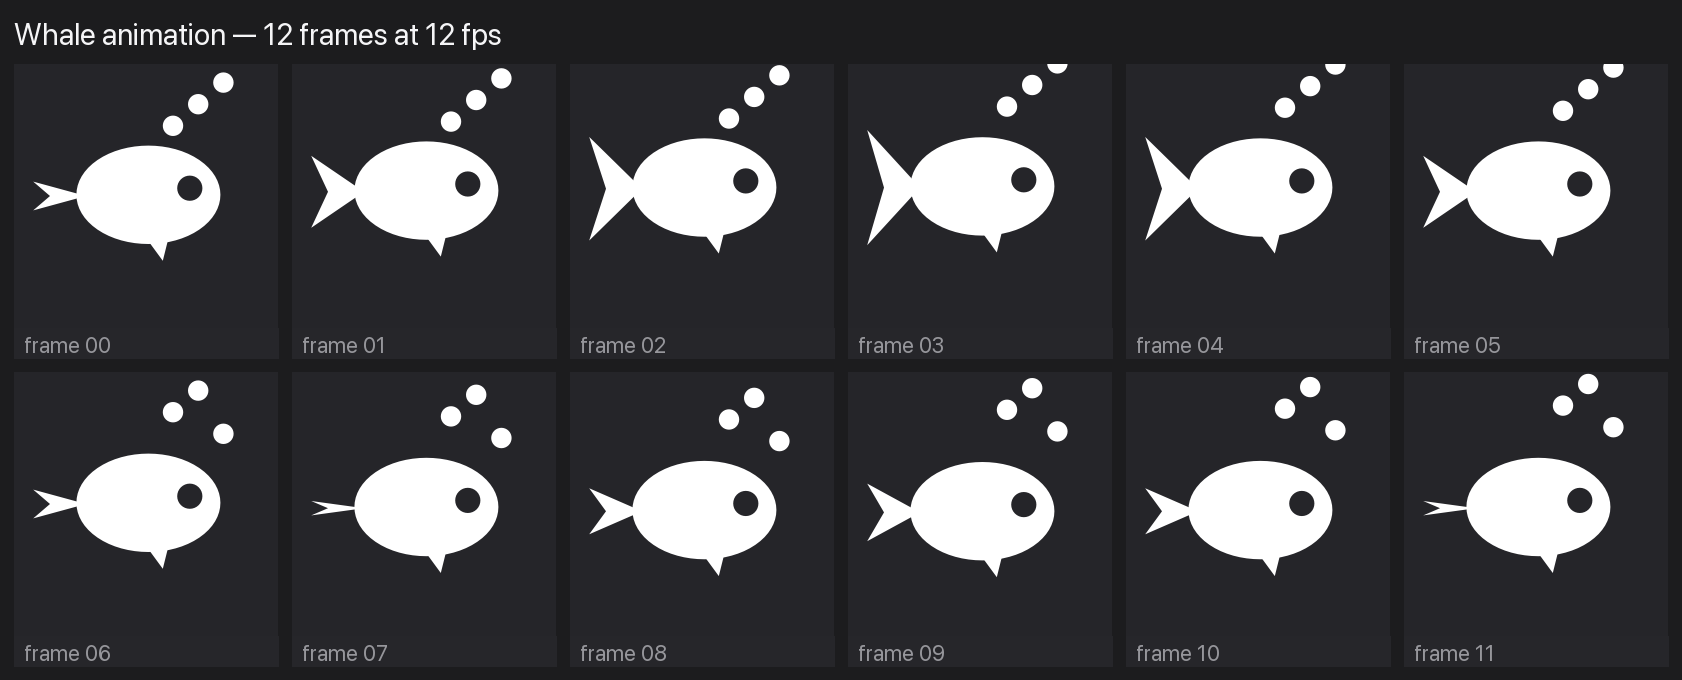
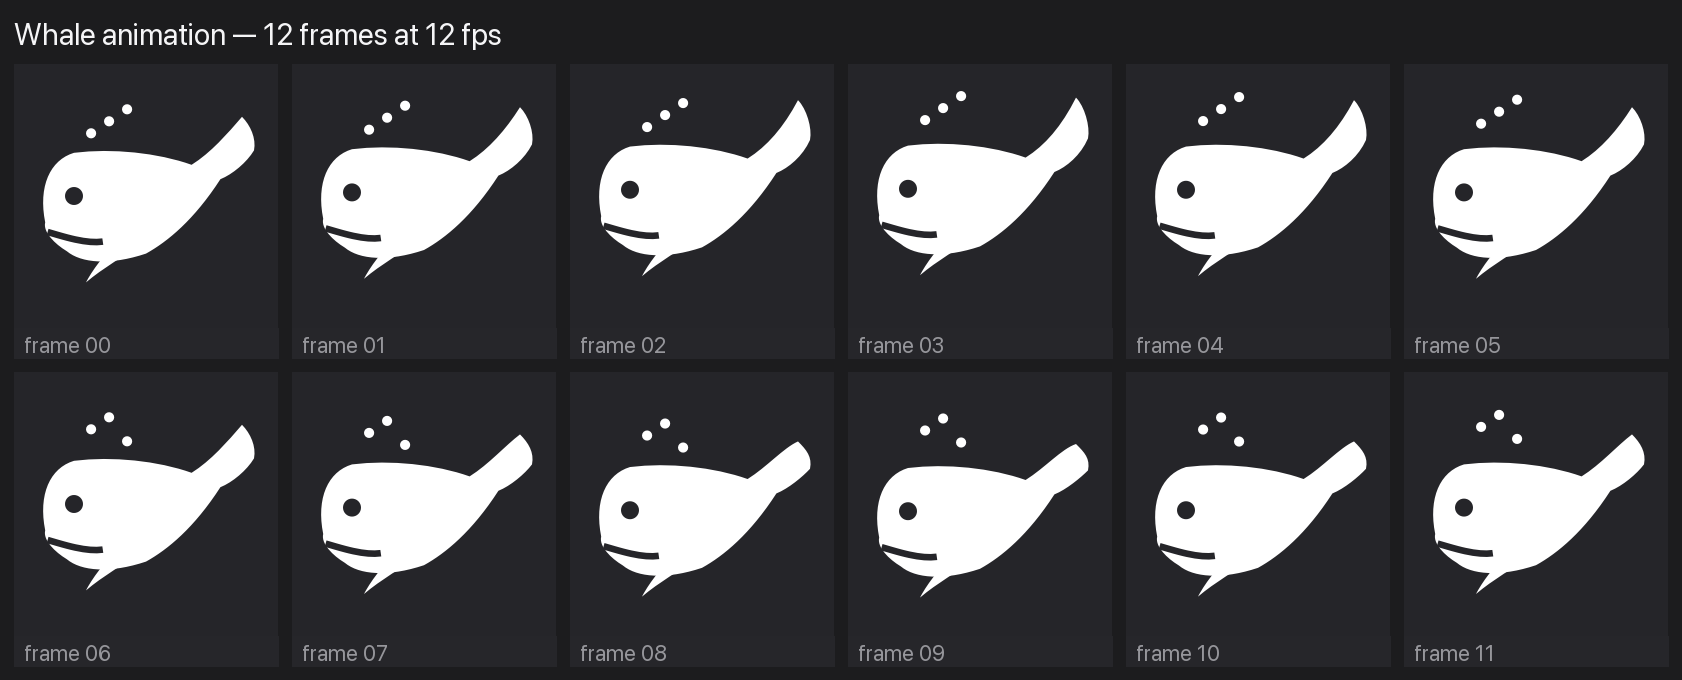
feat(0.4.1): redraw the whale with a broad fluke and mouth

diff --git a/app/Sources/DSHBar/WhaleIcon.swift b/app/Sources/DSHBar/WhaleIcon.swift
@@ -21,44 +21,78 @@ enum WhaleIcon {
     private static func drawWhale(in rect: NSRect, frame: Int, state: BarState) {
         let t = CGFloat(frame) / 12.0
         let animates = state.animates
-        let bob: CGFloat = animates ? sin(t * .pi * 2) * 0.7 : 0
-        let tail: CGFloat = animates ? sin(t * .pi * 2) * 0.9 : 0.25
+        let bob: CGFloat = animates ? sin(t * .pi * 2) * 0.6 : 0
+        let tail: CGFloat = animates ? sin(t * .pi * 2) * 1.0 : 0.2
         NSColor.black.setFill()
 
-        // Body.
-        NSBezierPath(ovalIn: NSRect(x: 5.2, y: 7.0 + bob, width: 12.0, height: 8.2)).fill()
+        // Head at the left, back curving up to a single raised fluke on the
+        // right. A whale tail is a broad blade, not a fish's forked fin.
+        let body = NSBezierPath()
+        body.move(to: NSPoint(x: 2.6, y: 8.8 + bob))
+        body.curve(to: NSPoint(x: 5.0, y: 14.6 + bob),
+                   controlPoint1: NSPoint(x: 2.0, y: 11.8 + bob),
+                   controlPoint2: NSPoint(x: 3.0, y: 14.0 + bob))
+        body.curve(to: NSPoint(x: 14.8, y: 13.6 + bob),
+                   controlPoint1: NSPoint(x: 8.2, y: 15.0 + bob),
+                   controlPoint2: NSPoint(x: 12.0, y: 14.6 + bob))
+        body.curve(to: NSPoint(x: 19.0, y: 17.6 + bob + tail),
+                   controlPoint1: NSPoint(x: 16.4, y: 14.6 + bob),
+                   controlPoint2: NSPoint(x: 17.8, y: 16.2 + bob))
+        body.curve(to: NSPoint(x: 20.0, y: 14.8 + bob + tail * 0.4),
+                   controlPoint1: NSPoint(x: 19.7, y: 16.9 + bob + tail),
+                   controlPoint2: NSPoint(x: 20.2, y: 15.8 + bob + tail * 0.4))
+        body.curve(to: NSPoint(x: 17.2, y: 12.4 + bob),
+                   controlPoint1: NSPoint(x: 19.4, y: 13.8 + bob),
+                   controlPoint2: NSPoint(x: 18.2, y: 12.8 + bob))
+        body.curve(to: NSPoint(x: 11.0, y: 6.2 + bob),
+                   controlPoint1: NSPoint(x: 15.0, y: 9.0 + bob),
+                   controlPoint2: NSPoint(x: 12.8, y: 7.2 + bob))
+        body.curve(to: NSPoint(x: 4.4, y: 6.4 + bob),
+                   controlPoint1: NSPoint(x: 8.0, y: 5.2 + bob),
+                   controlPoint2: NSPoint(x: 5.6, y: 5.4 + bob))
+        body.curve(to: NSPoint(x: 2.6, y: 8.8 + bob),
+                   controlPoint1: NSPoint(x: 3.4, y: 7.0 + bob),
+                   controlPoint2: NSPoint(x: 2.4, y: 8.0 + bob))
+        body.close()
+        body.fill()
 
-        // Tail: two flukes swinging around the body's left end.
-        let tailPath = NSBezierPath()
-        tailPath.move(to: NSPoint(x: 6.0, y: 11.0 + bob))
-        tailPath.line(to: NSPoint(x: 1.6, y: 11.0 + bob + 4.0 * tail + 1.2))
-        tailPath.line(to: NSPoint(x: 3.0, y: 11.0 + bob))
-        tailPath.line(to: NSPoint(x: 1.6, y: 11.0 + bob - 4.0 * tail - 1.2))
-        tailPath.close()
-        tailPath.fill()
-
-        // Fin.
+        // Pectoral flipper.
         let fin = NSBezierPath()
-        fin.move(to: NSPoint(x: 10.2, y: 8.6 + bob))
-        fin.line(to: NSPoint(x: 12.4, y: 5.6 + bob))
-        fin.line(to: NSPoint(x: 13.2, y: 8.8 + bob))
+        fin.move(to: NSPoint(x: 9.0, y: 7.4 + bob))
+        fin.curve(to: NSPoint(x: 6.0, y: 3.8 + bob),
+                  controlPoint1: NSPoint(x: 7.6, y: 6.4 + bob),
+                  controlPoint2: NSPoint(x: 6.4, y: 4.6 + bob))
+        fin.curve(to: NSPoint(x: 10.6, y: 7.0 + bob),
+                  controlPoint1: NSPoint(x: 7.4, y: 5.0 + bob),
+                  controlPoint2: NSPoint(x: 9.2, y: 6.0 + bob))
         fin.close()
         fin.fill()
 
+        // Mouth and eye: punch holes so the template adapts to the bar tint.
+        NSGraphicsContext.saveGraphicsState()
+        NSGraphicsContext.current?.compositingOperation = .clear
+        NSColor.white.setStroke()
+        let jaw = NSBezierPath()
+        jaw.move(to: NSPoint(x: 2.8, y: 8.0 + bob))
+        jaw.curve(to: NSPoint(x: 7.4, y: 7.2 + bob),
+                  controlPoint1: NSPoint(x: 4.2, y: 7.6 + bob),
+                  controlPoint2: NSPoint(x: 6.0, y: 7.0 + bob))
+        jaw.lineWidth = 0.55
+        jaw.stroke()
+        NSBezierPath(ovalIn: NSRect(x: 4.25, y: 10.25 + bob, width: 1.5, height: 1.5)).fill()
+        NSGraphicsContext.restoreGraphicsState()
+
         // Spout while the agent is busy.
         if state == .thinking || state == .tool {
+            NSColor.black.setFill()
             for index in 0..<3 {
-                let lift = CGFloat((frame / 3 + index * 2) % 6) * 0.9
-                let drop = NSBezierPath(ovalIn: NSRect(x: 12.4 + CGFloat(index) * 2.1, y: 16.0 + lift + bob, width: 1.7, height: 1.7))
+                let lift = CGFloat((frame / 3 + index * 2) % 6) * 0.5
+                let drop = NSBezierPath(ovalIn: NSRect(x: 6.0 + CGFloat(index) * 1.5,
+                                                       y: 15.8 + lift + bob,
+                                                       width: 0.85, height: 0.85))
                 drop.fill()
             }
         }
-
-        // Eye: punch a hole so the template adapts to the menu bar tint.
-        NSGraphicsContext.saveGraphicsState()
-        NSGraphicsContext.current?.compositingOperation = .clear
-        NSBezierPath(ovalIn: NSRect(x: 13.6, y: 10.6 + bob, width: 2.1, height: 2.1)).fill()
-        NSGraphicsContext.restoreGraphicsState()
     }
 
     /// Minimal status dot for the "dot only" menu bar mode.

diff --git a/README.md b/README.md
@@ -50,7 +50,8 @@ New in **0.3**:
 New in **0.4**:
 
 - **instant updates** over Server-Sent Events (`GET /dsh-bar/events`); the 0.8 s poll stays as a safety net and for reconnects;
-- **global hotkey ⌥⌘D** toggles the popover from any app (Settings can disable it).
+- **global hotkey ⌥⌘D** toggles the popover from any app (Settings can disable it);
+- **0.4.1:** redrew the whale — big head, mouth line, broad raised fluke and pectoral fin, instead of the fish-like oval.
 
 ## Download and install (free)
 
@@ -64,7 +65,7 @@ brew install --cask dsh-bar
 
 ### Manual
 
-Download `DSHBar-0.4.0-macos-universal.zip` from the [latest release](https://github.com/reg4916/dsh-bar/releases/latest), unzip into `/Applications`, and on first launch right-click → **Open** (or `xattr -dr com.apple.quarantine /Applications/DSHBar.app`). The bundle is **ad-hoc signed** — there is no paid Apple Developer ID, so no notarization.
+Download `DSHBar-0.4.1-macos-universal.zip` from the [latest release](https://github.com/reg4916/dsh-bar/releases/latest), unzip into `/Applications`, and on first launch right-click → **Open** (or `xattr -dr com.apple.quarantine /Applications/DSHBar.app`). The bundle is **ad-hoc signed** — there is no paid Apple Developer ID, so no notarization.
 
 ### Host plugin
 
